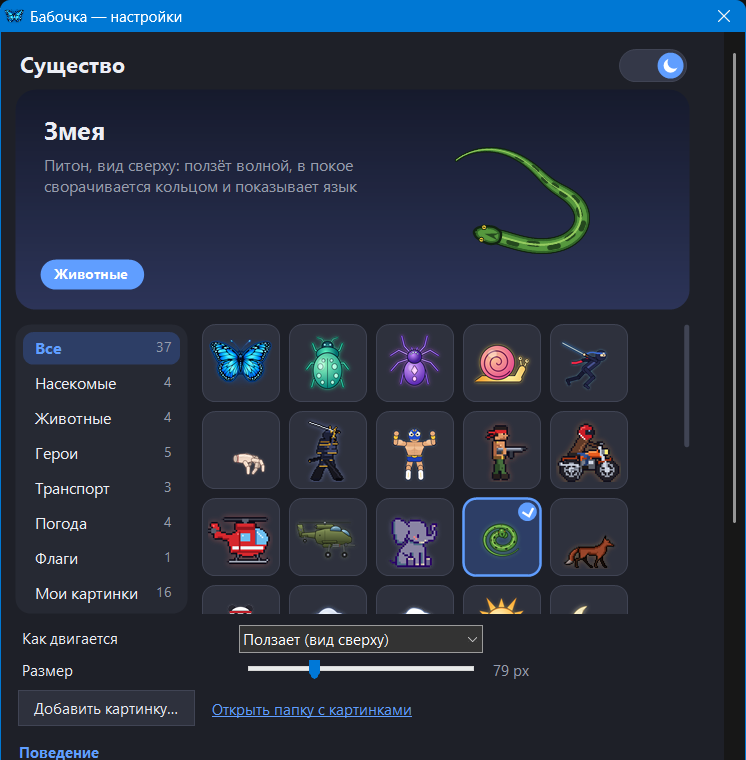
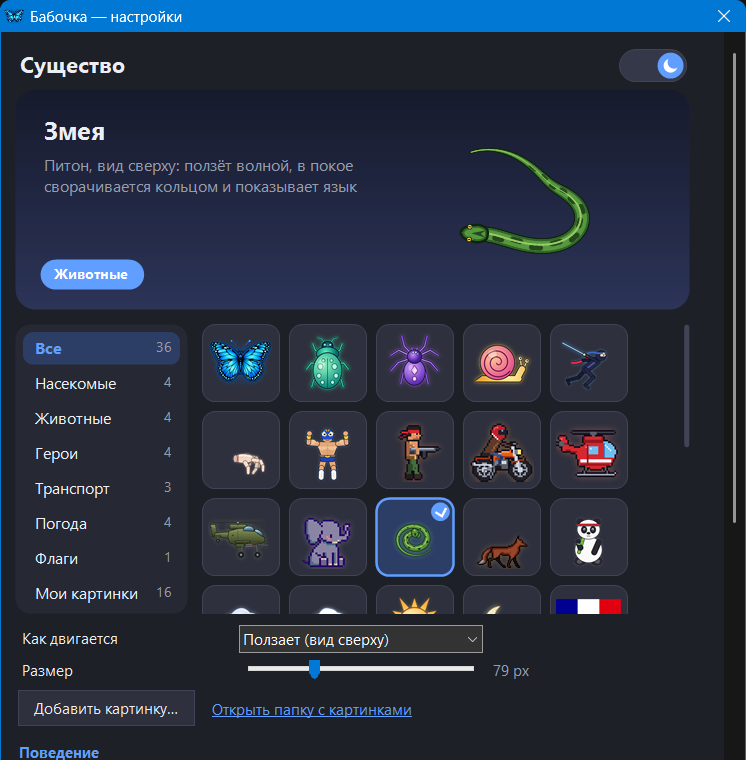
Version 1.5: macOS and Linux preview, own speed and acceleration per creature, helicopter tilt, pointer no longer reappears while typing; samurai removed until a better one

diff --git a/src/Help.cs b/src/Help.cs
@@ -46,7 +46,7 @@ namespace ButterflyCursor
 Все изменения применяются сразу и сохраняются сами.
 
 # Существа
-В списке «Кто летает за мышью» есть бабочка, жук, паук, улитка, ниндзя с мечом, чёрный самурай, лучадор в маске, пиксельный коммандос, байкер, вертолёт, ударный вертолёт, слонёнок, лисичка, змея, панда-мастер, рука-помощница, облако с дождём, облако со снегом, солнце, луна и флаг. Список «Как двигается» задаёт способ движения: летает, ползает, скользит, парит, бежит или развевается, как флаг.
+В списке «Кто летает за мышью» есть бабочка, жук, паук, улитка, ниндзя с мечом, лучадор в маске, пиксельный коммандос, байкер, вертолёт, ударный вертолёт, слонёнок, лисичка, змея, панда-мастер, рука-помощница, облако с дождём, облако со снегом, солнце, луна и флаг. Список «Как двигается» задаёт способ движения: летает, ползает, скользит, парит, бежит или развевается, как флаг.
 • Флаг своей страны выбирается в списке «Флаг страны» — там все страны мира.
 • Ниндзя бежит за мышью, как в старых играх, а когда мышь стоит — останавливается с мечом.
 
@@ -95,7 +95,7 @@ A small creature that follows your mouse pointer and leaves a trail of glowing d
 Every change is applied at once and saved automatically.
 
 # Creatures
-The “Who follows the mouse” list has a butterfly, a beetle, a spider, a snail, a ninja with a sword, a black samurai, a masked luchador, a pixel commando, a biker, a helicopter, an attack helicopter, a baby elephant, a fox, a snake, a panda master, a helper hand, a rain cloud, a snow cloud, the sun, the moon and a flag. “How it moves” sets the way of moving: flies, crawls, glides, floats, runs or waves like a flag.
+The “Who follows the mouse” list has a butterfly, a beetle, a spider, a snail, a ninja with a sword, a masked luchador, a pixel commando, a biker, a helicopter, an attack helicopter, a baby elephant, a fox, a snake, a panda master, a helper hand, a rain cloud, a snow cloud, the sun, the moon and a flag. “How it moves” sets the way of moving: flies, crawls, glides, floats, runs or waves like a flag.
 • Choose your country in the “Country flag” list — every country in the world is there.
 • The ninja runs after the mouse like in old games and stops, sword in hand, when the mouse is still.
 
@@ -144,7 +144,7 @@ Sichqoncha koʻrsatkichi ortidan uchib yuradigan va ortidan yaltiroq chang qoldi
 Barcha oʻzgarishlar darhol qoʻllanadi va oʻzi saqlanadi.
 
 # Jonzotlar
-«Sichqoncha ortidan kim yuradi» roʻyxatida kapalak, qoʻngʻiz, oʻrgimchak, shilliqqurt, qilichli ninja, qora samuray, niqobli luchador, piksel komandos, bayker, vertolyot, hujumchi vertolyot, fil bolasi, tulkicha, ilon, panda usta, yordamchi qoʻl, yomgʻirli bulut, qorli bulut, quyosh, oy va bayroq bor. «Qanday harakatlanadi» roʻyxati harakat turini belgilaydi: uchadi, oʻrmalaydi, sirpanadi, havoda suzadi, yuguradi yoki bayroqdek hilpiraydi.
+«Sichqoncha ortidan kim yuradi» roʻyxatida kapalak, qoʻngʻiz, oʻrgimchak, shilliqqurt, qilichli ninja, niqobli luchador, piksel komandos, bayker, vertolyot, hujumchi vertolyot, fil bolasi, tulkicha, ilon, panda usta, yordamchi qoʻl, yomgʻirli bulut, qorli bulut, quyosh, oy va bayroq bor. «Qanday harakatlanadi» roʻyxati harakat turini belgilaydi: uchadi, oʻrmalaydi, sirpanadi, havoda suzadi, yuguradi yoki bayroqdek hilpiraydi.
 • Oʻz davlatingiz bayrogʻini «Davlat bayrogʻi» roʻyxatidan tanlang — u yerda dunyoning barcha davlatlari bor.
 • Ninja eski oʻyinlardagidek sichqoncha ortidan yuguradi, sichqoncha toʻxtasa — qilichini ushlab toʻxtaydi.
 

diff --git a/src/Settings.cs b/src/Settings.cs
@@ -112,7 +112,6 @@ namespace ButterflyCursor
                 new Creature { Id = "snail", Pace = 0.15f, Accel = 0.8f, Title = L.T("Улитка"), DefaultStyle = MoveStyle.Slide, Category = "insects", Desc = "Медленно, но верно ползёт к курсору" },
                 new Creature { Id = "ninja", Pace = 1.4f, Accel = 0.35f, Title = L.T("Ниндзя"), DefaultStyle = MoveStyle.Run, Category = "heroes", Desc = "Бежит с мечом, в покое медитирует на «Пуске»" },
                 new Creature { Id = "hand", Pace = 0.75f, Accel = 0.5f, Title = L.T("Рука-помощница"), DefaultStyle = MoveStyle.Run, Category = "heroes", Desc = "Бегает на кончиках пальцев" },
-                new Creature { Id = "samurai", Pace = 1.0f, Accel = 0.45f, Title = L.T("Чёрный самурай"), DefaultStyle = MoveStyle.Run, RunFrames = 6, RestSeq = new[] { 0, 0, 1, 1, 0, 0, 1, 1, 0, 0, 2, 3, 3, 1, 1, 0 }, RestStep = 0.22f, Category = "heroes", Desc = "Бежит с катаной, в покое стоит в боевой стойке и рубит воздух" },
                 new Creature { Id = "luchador", Pace = 0.8f, Accel = 0.6f, Title = L.T("Лучадор «Бабочка»"), DefaultStyle = MoveStyle.Run, Category = "heroes", Desc = "Рестлер в маске, в покое играет мышцами" },
                 new Creature { Id = "commando", Pace = 0.9f, Accel = 0.5f, Title = L.T("Пиксельный коммандос"), DefaultStyle = MoveStyle.Run, RunFrames = 6, RestSeq = new[] { 0, 0, 0, 0, 3, 0, 0, 0, 1, 2, 1, 2, 1, 2, 0, 0, 0, 3, 0, 0 }, RestStep = 0.16f, Jumps = true, Category = "heroes", Desc = "Герой ретро-игр: бегает, прыгает кувырком, в покое отстреливается" },
                 new Creature { Id = "biker", Pace = 1.5f, Accel = 0.9f, Title = L.T("Байкер"), DefaultStyle = MoveStyle.Run, RunFrames = 4, RestSeq = new[] { 0, 0, 0, 0, 2, 2, 0, 0, 0, 1, 1, 1, 0, 0 }, RestStep = 0.25f, Category = "vehicles", Desc = "Мчит на мотоцикле, в покое стоит на подножке, машет и газует" },

diff --git a/src/Lang.cs b/src/Lang.cs
@@ -99,8 +99,6 @@ namespace ButterflyCursor
 
             { "Слонёнок", new[] { "Baby elephant", "Fil bolasi" } },
             { "Лисичка", new[] { "Fox", "Tulkicha" } },
-            { "Чёрный самурай", new[] { "Black samurai", "Qora samuray" } },
-            { "Бежит с катаной, в покое стоит в боевой стойке и рубит воздух", new[] { "Runs with a katana; when idle it stands on guard and cuts the air", "Katana bilan yuguradi, dam olganda jangovar holatda turib havoni kesadi" } },
             { "Да", new[] { "Yes", "Ha" } },
             { "Нет", new[] { "No", "Yoʻq" } },
             { "Загрузка…", new[] { "Downloading…", "Yuklanmoqda…" } },

diff --git a/src/Installer.cs b/src/Installer.cs
@@ -15,7 +15,7 @@ namespace ButterflyCursor
     static class Installer
     {
         public const string AppName = "Butterfly Cursor";
-        public const string Version = "1.4";
+        public const string Version = "1.5";
         const string AppKey = @"Software\ButterflyCursor";
         const string UninstallKey = @"Software\Microsoft\Windows\CurrentVersion\Uninstall\ButterflyCursor";
 

diff --git a/cross/butterfly_cursor.py b/cross/butterfly_cursor.py
@@ -17,7 +17,7 @@ from PySide6.QtGui import (QAction, QActionGroup, QColor, QCursor, QGuiApplicati
                            QPen, QPixmap, QPolygonF, QRadialGradient, QImage)
 from PySide6.QtWidgets import QApplication, QMenu, QSystemTrayIcon, QWidget
 
-VERSION = "1.5-preview"
+VERSION = "1.5 preview"
 
 
 def asset_dir():
